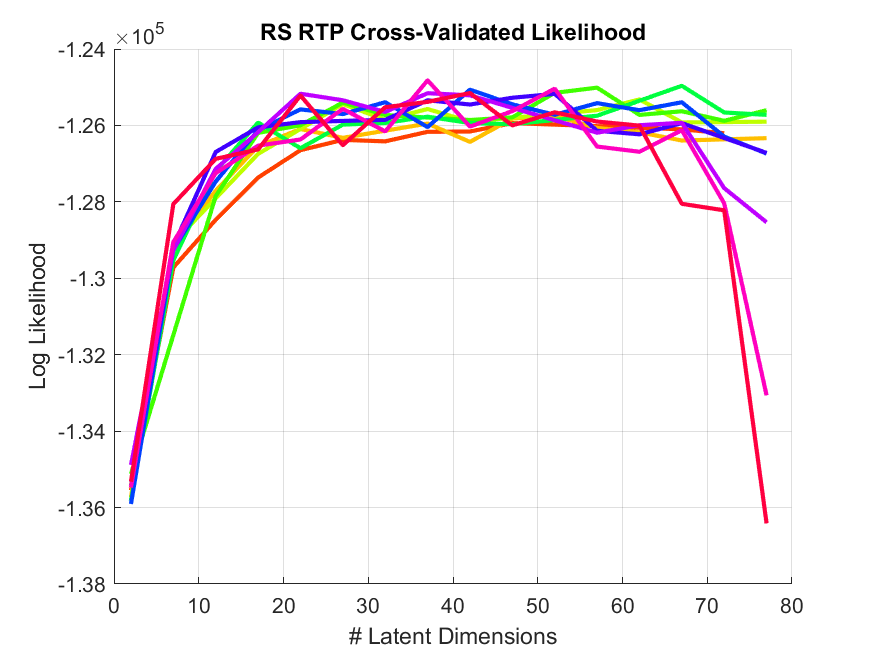
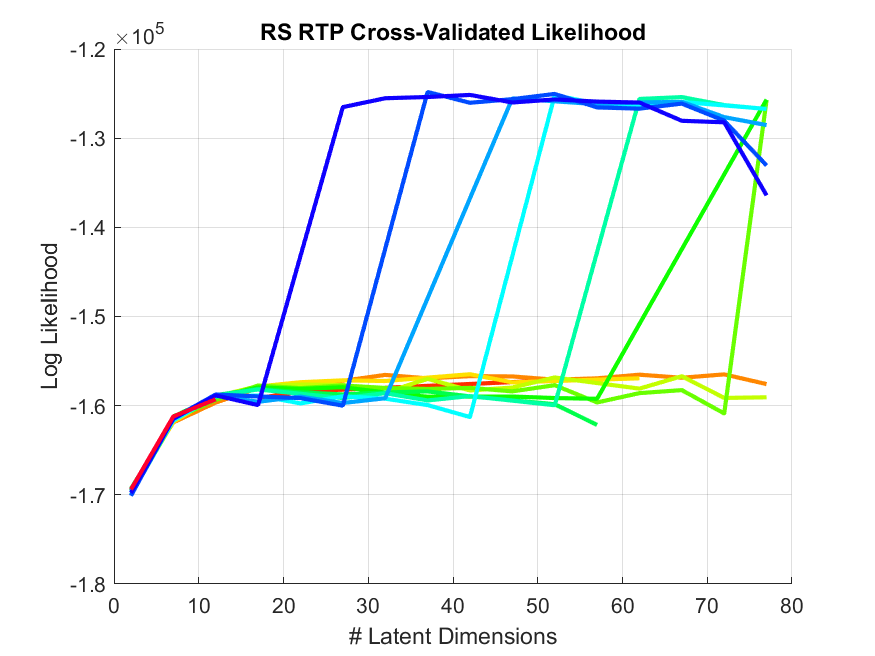
ugh

diff --git a/code/python_switching_models/run_param_search_local.py b/code/python_switching_models/run_param_search_local.py
@@ -1,4 +1,5 @@
 from run_rslds import run_rslds
+
 train_portion = 0.8
 model_select_portion = 0.0
 test_portion = 0.2
@@ -6,13 +7,13 @@ hidden_max_state_range = 120
 hidden_state_skip = 1
 
 
-latent_dim_state_range = 12
+number_of_latent_dimensions = 32
+number_of_discrete_states = 4
 fold_number = 1
 subject = 'rs'
-task = 'CO'
-num_hidden_state_override = 8
-rslds_ll_analysis = 0
-midway_run = 1
+task = 'RTP'
+midway_run = 0
+rslds_ll_analysis = midway_run
 num_neuron_folds = 4
 
 # %% Running it
@@ -24,9 +25,9 @@ run_rslds(
     test_portion,
     hidden_max_state_range,
     hidden_state_skip,
-    num_hidden_state_override,
+    number_of_discrete_states,
     rslds_ll_analysis,
-    latent_dim_state_range,
+    number_of_latent_dimensions,
     midway_run,
     fold_number,
     num_neuron_folds

diff --git a/code/python_switching_models/run_rslds.py b/code/python_switching_models/run_rslds.py
@@ -52,7 +52,7 @@ def run_rslds(
         folderpath_base_base = "C:/Users/calebsponheim/Documents/git/intermittent_control_project/"
     elif "dali" in current_working_directory:
         folderpath_base_base = "/dali/nicho/caleb/git/intermittent_control_project/"
-    elif "project" in current_working_directory:
+    elif "project/nicho/caleb" in current_working_directory:
         folderpath_base_base = "/project/nicho/caleb/git/intermittent_control_project/"
     elif "Caleb (Work)" in current_working_directory:
         folderpath_base_base = "C:/Users/Caleb (Work)/Documents/git/intermittent_control_project/"

diff --git a/code/python_switching_models/matlab_reimport.m b/code/python_switching_models/matlab_reimport.m
@@ -19,8 +19,8 @@ filepath = [filepath_base 'RSRTP0.05sBins\'];
 % filepath = [filepath_base 'Bxcenter_out1803230.05sBins\'];
 
 % OPTIONS
-num_desired_states = 8;
-num_desired_dims = 12;
+num_desired_states = 2;
+num_desired_dims = 2;
 
 
 filepath_for_ll_plot = filepath;
